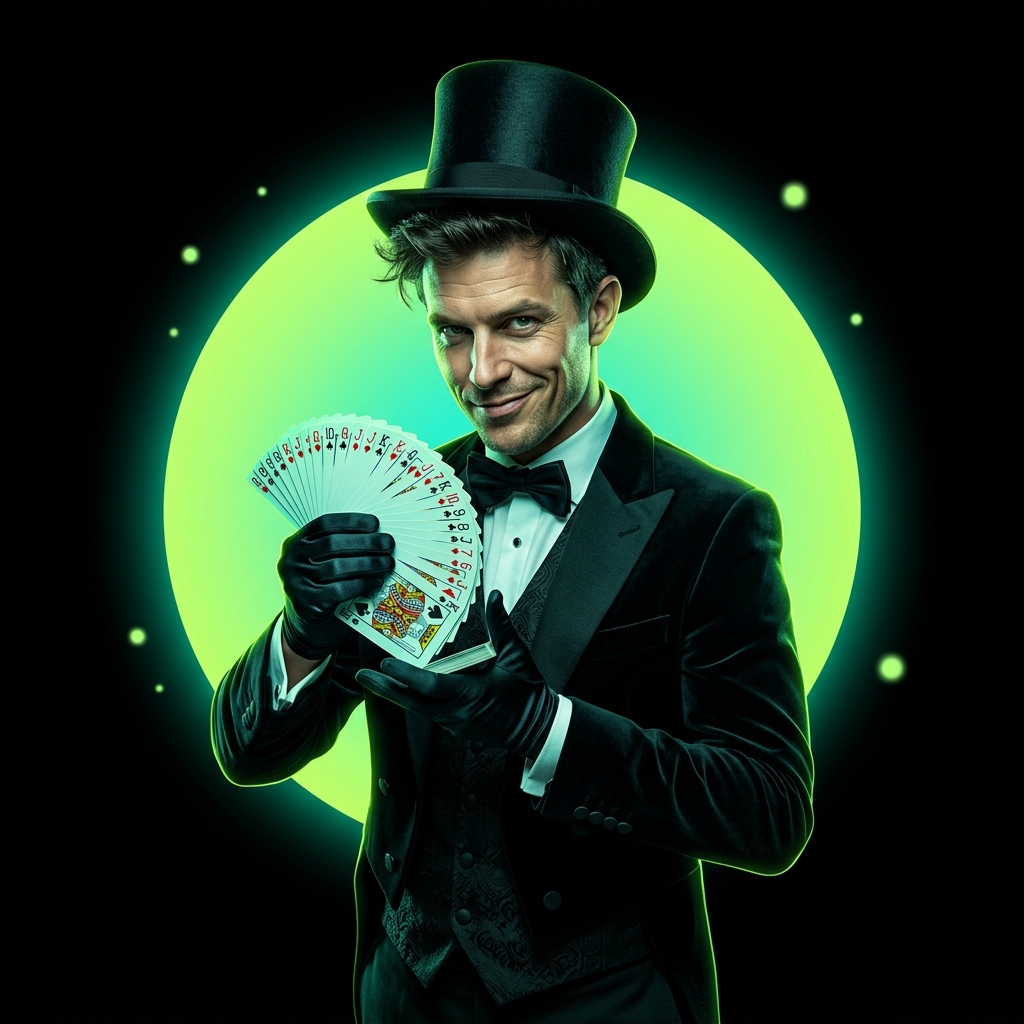
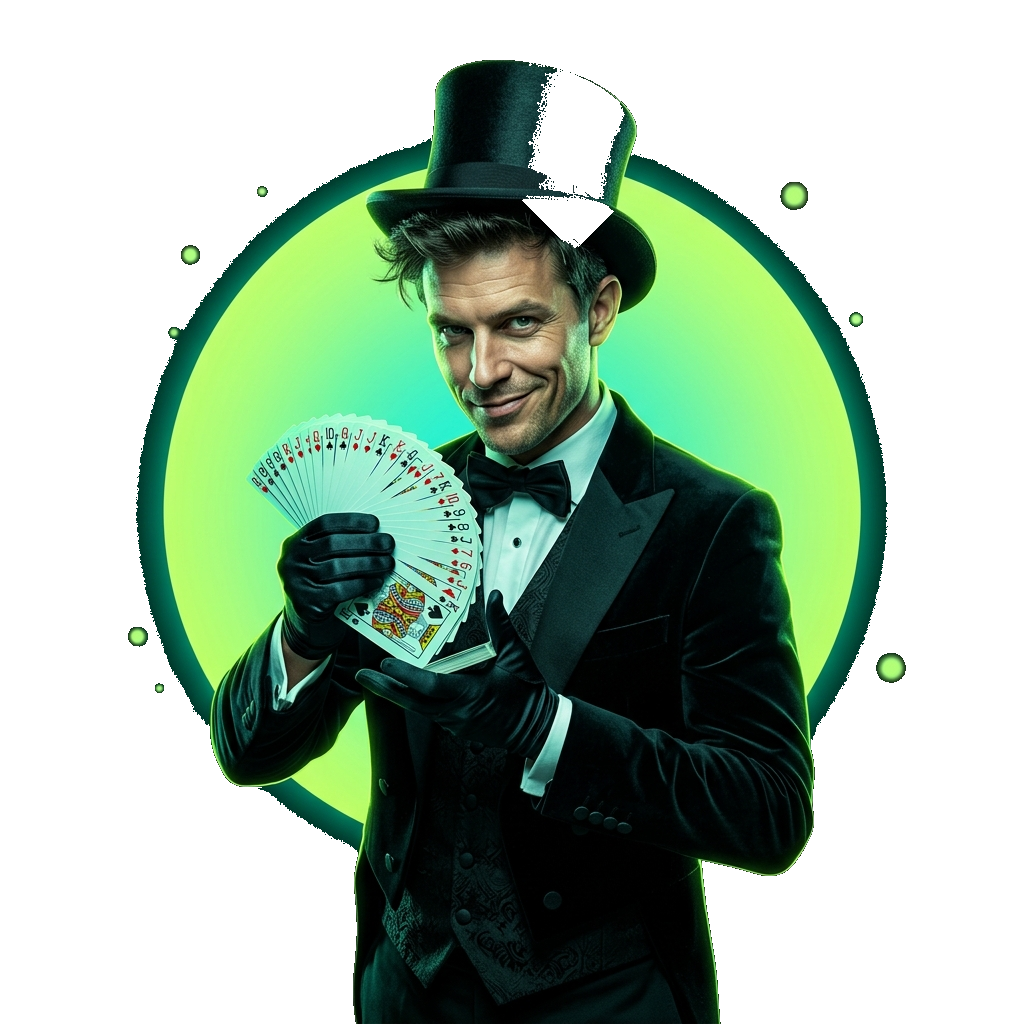
onboarding

diff --git a/app/(onboarding)/index.tsx b/app/(onboarding)/index.tsx
@@ -43,8 +43,8 @@ const MESH_CONFIGS: MeshConfig[] = [
     colors: ['#86FFD4', D, D, D, D, D, D, D, '#7BFFAE'],
   },
   {
-    // CRACKING — blob top-center (lime), blob middle-right (mint)
-    colors: [D, '#C8FF82', D, D, D, '#3BFFB8', D, D, D],
+    // CRACKING — single muted blob middle-right (figure carries the wow factor)
+    colors: [D, D, D, D, D, '#3A8B5C', D, D, D],
   },
 ];
 
@@ -319,8 +319,8 @@ function HeroSlideView({
         />
       </View>
 
-      {/* ── Hero figure (image already contains disc + dots + black bg) ── */}
-      <View style={{ flex: 1, alignItems: 'center', justifyContent: 'center' }}>
+      {/* ── Hero figure (image already contains disc + dots) — base flush to card */}
+      <View style={{ flex: 1, alignItems: 'center', justifyContent: 'flex-end' }}>
         <Image
           source={slide.image}
           style={{ width: HERO_FIGURE, height: HERO_FIGURE }}
@@ -335,9 +335,9 @@ function HeroSlideView({
           borderTopLeftRadius: CARD_RADIUS,
           borderTopRightRadius: CARD_RADIUS,
           paddingHorizontal: T.sp7,
-          paddingTop: T.sp8,
+          paddingTop: 80,
           paddingBottom: T.sp9 + bottomInset,
-          gap: T.sp6,
+          gap: T.sp7,
           alignItems: 'center',
         }}
       >